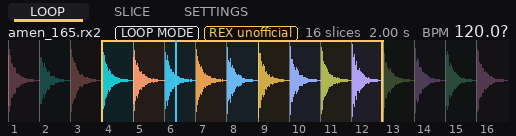
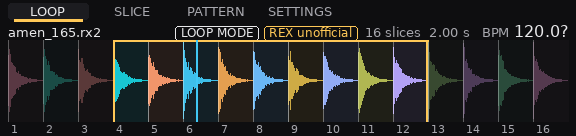
2.10.2: Per-slice CV A/B outputs
Claude-Session: https://claude.ai/code/session_01LofT1pqQm2emWHyWncfvgX

diff --git a/src/Spools.cpp b/src/Spools.cpp
@@ -96,6 +96,8 @@ Spools::Spools() {
 	configOutput(EOC_OUTPUT, "End of phrase");
 	configOutput(SEND_A_OUTPUT, "Send A (mono, each slice at its own level)");
 	configOutput(SEND_B_OUTPUT, "Send B (mono, each slice at its own level)");
+	configOutput(CV_A_OUTPUT, "CV A (each slice's own voltage)");
+	configOutput(CV_B_OUTPUT, "CV B (each slice's own voltage)");
 	for (int c = 0; c < kMaxVoices; c++) { playingSlice[c] = -1; playheads[c] = -1.f; playingStep[c] = -1; }
 	paramDivider.setDivision(32);
 	paramDivider.clock = 31;  // read the knobs on the first sample
@@ -360,6 +362,8 @@ void Spools::process(const ProcessArgs& args) {
 		outputs[RIGHT_OUTPUT].setVoltage(5.f * o.right, c);
 		outputs[SEND_A_OUTPUT].setVoltage(5.f * o.sendA, c);
 		outputs[SEND_B_OUTPUT].setVoltage(5.f * o.sendB, c);
+		outputs[CV_A_OUTPUT].setVoltage(o.cvA, c);
+		outputs[CV_B_OUTPUT].setVoltage(o.cvB, c);
 		outputs[SLICE_OUTPUT].setVoltage(o.slice >= 0 ? semitonesToVolts(o.slice) : 0.f, c);
 		outputs[TRIG_OUTPUT].setVoltage(trigPulses[c].process(args.sampleTime) ? 10.f : 0.f, c);
 		outputs[EOC_OUTPUT].setVoltage(eocPulses[c].process(args.sampleTime) ? 10.f : 0.f, c);
@@ -427,6 +431,8 @@ json_t* sliceParamsToJson(const SliceParams& p) {
 	num("xfade", p.xfade);
 	num("sendA", p.sendA);
 	num("sendB", p.sendB);
+	num("cvA", p.cvA);
+	num("cvB", p.cvB);
 	num("loopStart", p.loopStart);
 	num("loopEnd", p.loopEnd);
 	if (p.pingPong) json_object_set_new(j, "pingPong", json_true());
@@ -447,6 +453,8 @@ void sliceParamsFromJson(json_t* j, SliceParams& p) {
 	num("xfade", p.xfade);
 	num("sendA", p.sendA);
 	num("sendB", p.sendB);
+	num("cvA", p.cvA);
+	num("cvB", p.cvB);
 	num("loopStart", p.loopStart);
 	num("loopEnd", p.loopEnd);
 	p.pingPong = json_is_true(json_object_get(j, "pingPong"));

diff --git a/core/voice.cpp b/core/voice.cpp
@@ -82,6 +82,8 @@ void Voice::begin(const SeqEvent& e, double slotSeconds, const Loop& l, const Vo
 	pitch.snap(r.pitch);  // a new slice starts at its own pitch; only changes while it plays glide
 	send[0].snap(s.p.sendA);
 	send[1].snap(s.p.sendB);
+	cv[0] = s.p.cvA;
+	cv[1] = s.p.cvB;
 	velocity[cur] = e.gain;
 	gain[cur].snap(dbToGain(r.gain) * e.gain);
 	if (sliceOf[0] < 0 && sliceOf[1] < 0) { cutoff.snap(r.cutoff); res.snap(r.res); }  // first note: no sweep in
@@ -147,6 +149,8 @@ VoiceOut Voice::play(const SeqEvent& e, double beatPeriod, const Loop& l, const 
 		out.ampEnv = amp[cur].value();
 		out.filterEnv = fe;
 		out.slice = lastSlice;
+		out.cvA = cv[0];
+		out.cvB = cv[1];
 		controlCountdown = targetCountdown = 0;  // refresh everything on the next sound
 		return out;
 	}
@@ -191,6 +195,8 @@ VoiceOut Voice::play(const SeqEvent& e, double beatPeriod, const Loop& l, const 
 	const float mono = 0.5f * (out.left + out.right);
 	out.sendA = mono * send[0].value;
 	out.sendB = mono * send[1].value;
+	out.cvA = cv[0];
+	out.cvB = cv[1];
 	out.slice = lastSlice;
 	out.playing = players[0].active() || players[1].active();
 	quiet = !out.playing && std::fabs(out.left) + std::fabs(out.right) < 1e-6f ? quiet + 1 : 0;
@@ -207,6 +213,7 @@ void Voice::updateTargets(const Loop& l, const VoiceParams& vp) {
 	pitch.target = std::clamp(r.pitch + eventPitch, -48.f, 48.f);
 	send[0].target = std::clamp(sp.sendA, 0.f, 1.f);
 	send[1].target = std::clamp(sp.sendB, 0.f, 1.f);
+	if (lastSlice >= 0) { cv[0] = std::clamp(sp.cvA, -10.f, 10.f); cv[1] = std::clamp(sp.cvB, -10.f, 10.f); }
 	cutoff.target = r.cutoff;
 	res.target = r.res;
 }

diff --git a/core/voice.hpp b/core/voice.hpp
@@ -33,6 +33,7 @@ struct VoiceParams {
 struct VoiceOut {
 	float left = 0, right = 0;
 	float sendA = 0, sendB = 0;  // the voice's mono mix (after the filter) at the playing slice's send levels
+	float cvA = 0, cvB = 0;      // the newest slice's CV, held after it ends
 	int slice = -1;   // slice now playing (or last played)
 	bool trig = false, eoc = false, playing = false;
 	float ampEnv = 0, filterEnv = 0;
@@ -68,6 +69,7 @@ private:
 	int sliceOf[2] = {-1, -1};               // slice each player is sounding
 	Smoother gain[2], pitch, cutoff, res;    // gain is linear
 	Smoother send[2];                        // A and B, of the newest slice
+	float cv[2] = {0, 0};                    // A and B, of the newest slice; steps, never glides
 	int controlCountdown = 0, targetCountdown = 0;
 	bool released = false;
 	// Cached control-rate work: the glide coefficient, the last pitch sent and the last filter setting.

diff --git a/tests/voice.cpp b/tests/voice.cpp
@@ -337,6 +337,24 @@ TEST_CASE("Stretch tail fills the slot, keeping the attack's timing and the pitc
 	CHECK(half.outSamples == doctest::Approx(18000));
 }
 
+TEST_CASE("CV outputs step to each slice's own voltage and hold after it ends") {
+	auto l = std::make_shared<Loop>(*steps(2));
+	l->slices[0].p.cvA = 2;
+	l->slices[1].p.cvA = -3;
+	l->slices[1].p.cvB = 7.5f;
+	PhraseParams p;
+	p.length = 2;
+	p.loopCount = 1;
+	Voice v;
+	std::vector<VoiceOut> o;
+	for (size_t i = 0; i < 36000; i++) o.push_back(v.process(i / 48000.0 / 0.25, 0.25, i < 10, i == 0, 0, *l, p, {}, 48000));
+	CHECK(o[100].cvA == 2.f);
+	CHECK(o[11999].cvA == 2.f);
+	CHECK(o[12100].cvA == -3.f);
+	CHECK(o[12100].cvB == 7.5f);
+	CHECK(o[35999].cvA == -3.f);
+}
+
 TEST_CASE("sends carry the voice's mono mix at each slice's own level") {
 	auto l = std::make_shared<Loop>(*steps(2));
 	l->slices[0].p.sendA = 0.5f;

diff --git a/src/SpoolsWidget.cpp b/src/SpoolsWidget.cpp
@@ -241,9 +241,9 @@ struct SpoolsWidget : ModuleWidget {
 			labels->labels.push_back({x, kBottomY - 18, outLabels[i]});
 		}
 		// Per-slice outputs: each slice sets its own level into them on the SLICE page.
-		const int sliceOuts[] = {S::SEND_A_OUTPUT, S::SEND_B_OUTPUT};
-		const char* sliceLabels[] = {"SEND A", "SEND B"};
-		for (int i = 0; i < 2; i++) {
+		const int sliceOuts[] = {S::SEND_A_OUTPUT, S::SEND_B_OUTPUT, S::CV_A_OUTPUT, S::CV_B_OUTPUT};
+		const char* sliceLabels[] = {"SEND A", "SEND B", "CV A", "CV B"};
+		for (int i = 0; i < 4; i++) {
 			const float y = kSliceColY0 + kSliceColStep * float(i);
 			addOutput(createOutputCentered<ThemedPJ301MPort>(Vec(kSliceColX, y), module, sliceOuts[i]));
 			labels->labels.push_back({kSliceColX, y - 18, sliceLabels[i]});

diff --git a/src/Spools.hpp b/src/Spools.hpp
@@ -56,7 +56,7 @@ struct Spools : Module {
 		OVERLAP_INPUT, QUANTIZE_INPUT, CUTOFF_INPUT, RES_INPUT, RUN_INPUT, CONT_INPUT, BAR_INPUT,
 		INPUTS_LEN
 	};
-	enum OutputId { LEFT_OUTPUT, RIGHT_OUTPUT, SLICE_OUTPUT, TRIG_OUTPUT, EOC_OUTPUT, AMP_ENV_OUTPUT, FILTER_ENV_OUTPUT, SEND_A_OUTPUT, SEND_B_OUTPUT, OUTPUTS_LEN };
+	enum OutputId { LEFT_OUTPUT, RIGHT_OUTPUT, SLICE_OUTPUT, TRIG_OUTPUT, EOC_OUTPUT, AMP_ENV_OUTPUT, FILTER_ENV_OUTPUT, SEND_A_OUTPUT, SEND_B_OUTPUT, CV_A_OUTPUT, CV_B_OUTPUT, OUTPUTS_LEN };
 	enum LightId { LIGHTS_LEN };
 
 	static constexpr int kMaxVoices = 16;

diff --git a/core/loop.hpp b/core/loop.hpp
@@ -28,6 +28,7 @@ struct SliceParams {
 	float cutoff = 0, res = 0;         // octaves, 0..1
 	float xfade = 0;                   // seconds
 	float sendA = 0, sendB = 0;        // 0..1, levels into the SEND A/B outputs
+	float cvA = 0, cvB = 0;            // volts at the CV A/B outputs while the slice plays
 	bool reverse = false;
 	TailMode tail = TailMode::Inherit;
 	// Loop tail: points in seconds from the slice start. loopEnd <= loopStart means "automatic":

diff --git a/src/SlicePage.cpp b/src/SlicePage.cpp
@@ -61,6 +61,8 @@ const std::vector<Field>& fields() {
 				}),
 			num("Send A", &SliceParams::sendA, 0, 1, 0.005f, "%.2f"),
 			num("Send B", &SliceParams::sendB, 0, 1, 0.005f, "%.2f"),
+			num("CV A", &SliceParams::cvA, -10, 10, 0.02f, "%+.2f V"),
+			num("CV B", &SliceParams::cvB, -10, 10, 0.02f, "%+.2f V"),
 		};
 	}();
 	return f;

diff --git a/docs/manual.md b/docs/manual.md
@@ -15,7 +15,7 @@ Spools is a loop player and slicer for VCV Rack 2. It plays REX2, Acidized WAV a
 
 - **Display**: click the tabs along its top to switch pages.
   - **LOOP**: the loop, one colour per slice, with beat and bar lines, a playhead per voice in its slice's colour, and the region marked by an amber bracket (slices outside it are dimmed). The header shows the file, LOOP MODE and REX badges when they apply, the slice count, the length and the current BPM (a `?` means it was guessed).
-  - **SLICE**: a close-up of the selected slice (the first one, when several are selected; the playing one when none is). The ‹ › buttons in the tab row step through the slices. It shows the trims, the transient end (dotted line, `T`) and the loop region in amber, faint while automatic and bright once set by hand. Below are the slice's own settings: Pitch, Gain, Pan, Cutoff, Res and Xfade (drag up or down, Shift for fine, double-click to reset), Reverse, Tail, Loop (Forward or Pingpong) and Points (Auto or Manual), which open a menu when clicked, and Send A and Send B, the slice's levels at the SEND outputs.
+  - **SLICE**: a close-up of the selected slice (the first one, when several are selected; the playing one when none is). The ‹ › buttons in the tab row step through the slices. It shows the trims, the transient end (dotted line, `T`) and the loop region in amber, faint while automatic and bright once set by hand. Below are the slice's own settings: Pitch, Gain, Pan, Cutoff, Res and Xfade (drag up or down, Shift for fine, double-click to reset), Reverse, Tail, Loop (Forward or Pingpong) and Points (Auto or Manual), which open a menu when clicked, Send A and Send B, the slice's levels at the SEND outputs, and CV A and CV B, its voltages at the CV outputs (±10 V).
 
     ![SLICE page](images/page-slice.png)
   - **PATTERN**: the slice-remap pattern for Pattern mode (see [Transport](#transport)).
@@ -24,7 +24,7 @@ Spools is a loop player and slicer for VCV Rack 2. It plays REX2, Acidized WAV a
 - **Main row**: SLICE (start slice), LENGTH, trim IN/OUT, PITCH, LEVEL, XFADE (overlap), DUR (gate length in Cut mode), QUANT (launch quantize), BPM. Each knob with a CV jack has a small CV-amount knob above the jack.
 - **FROM** and **TO** (region) sit under DUR and BPM.
 - **Bottom**: V/OCT, GATE, CLOCK, RUN, CONT and BAR inputs; outputs L, R, SLICE, TRIG, EOC, AENV, FENV.
-- **Right column**: the per-slice outputs SEND A and SEND B.
+- **Right column**: the per-slice outputs SEND A, SEND B, CV A and CV B.
 
 The panel is 40 HP.
 
@@ -134,6 +134,7 @@ Every input is polyphonic; channel *n* drives voice *n*. The CV inputs next to a
 | AENV, FENV | amp and filter envelopes, 0–10 V |
 | EOC | 1 ms pulse at the end of each phrase pass |
 | SEND A, SEND B | each voice's mono mix (after its filter and amp envelope) times the playing slice's Send level, ±5 V, polyphonic. Patch them into effects and mix the returns with L and R. |
+| CV A, CV B | the playing slice's CV A or CV B voltage (SLICE page), polyphonic. It changes when a slice starts and holds after the slice ends, so it can drive anything that should follow the slices: an effect's mix, a second filter, a sequencer's transpose. |
 
 ## Engine
 

diff --git a/CHANGELOG.md b/CHANGELOG.md
@@ -2,6 +2,11 @@
 
 Versions follow `TODO.md`: each `2.N.p` heading is one task, and the last one in a milestone is the released version.
 
+## 2.10.2
+
+- **CV A** and **CV B** outputs: each voice's playing slice sets a voltage (±10 V, 0 by default) on the SLICE page. It steps when a slice starts, holds after the slice ends, and is saved in the patch and the `spls` chunk.
+- Documentation images show the 40 HP panel.
+
 ## 2.10.1
 
 - **SEND A** and **SEND B** outputs: each voice's mono mix, after its filter and amp envelope, scaled by the playing slice's Send A or Send B level (0 by default), polyphonic. Levels are set on the SLICE page, glide when slices change, and are saved in the patch and the `spls` chunk.

diff --git a/TODO.md b/TODO.md
@@ -57,9 +57,9 @@ Each top-level item is a minor version (`2.N.0`) and one PR to `main`. Each seco
   - [x] 2.9.2 Ratchets with rate curve and velocity ramps; pattern loop/count/direction
   - [x] 2.9.3 Pattern page editor and menu actions; persistence in JSON and `spls`
 
-- [ ] **2.10 Per-slice sends and CV**
+- [x] **2.10 Per-slice sends and CV**
   - [x] 2.10.1 FX send A/B outputs with per-slice levels
-  - [ ] 2.10.2 Per-slice CV A/B outputs
+  - [x] 2.10.2 Per-slice CV A/B outputs
 
 - [ ] **2.11 Resizable panel**
   - [ ] 2.11.1 NanoVG-drawn panel, resize handle, display that grows with width
